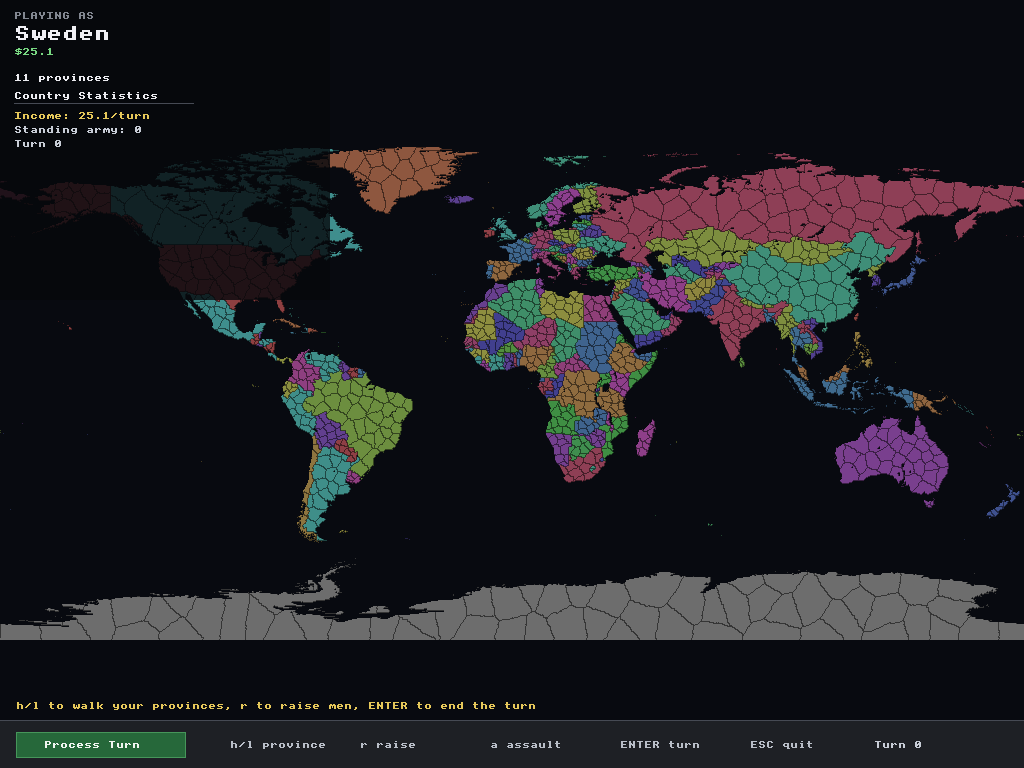
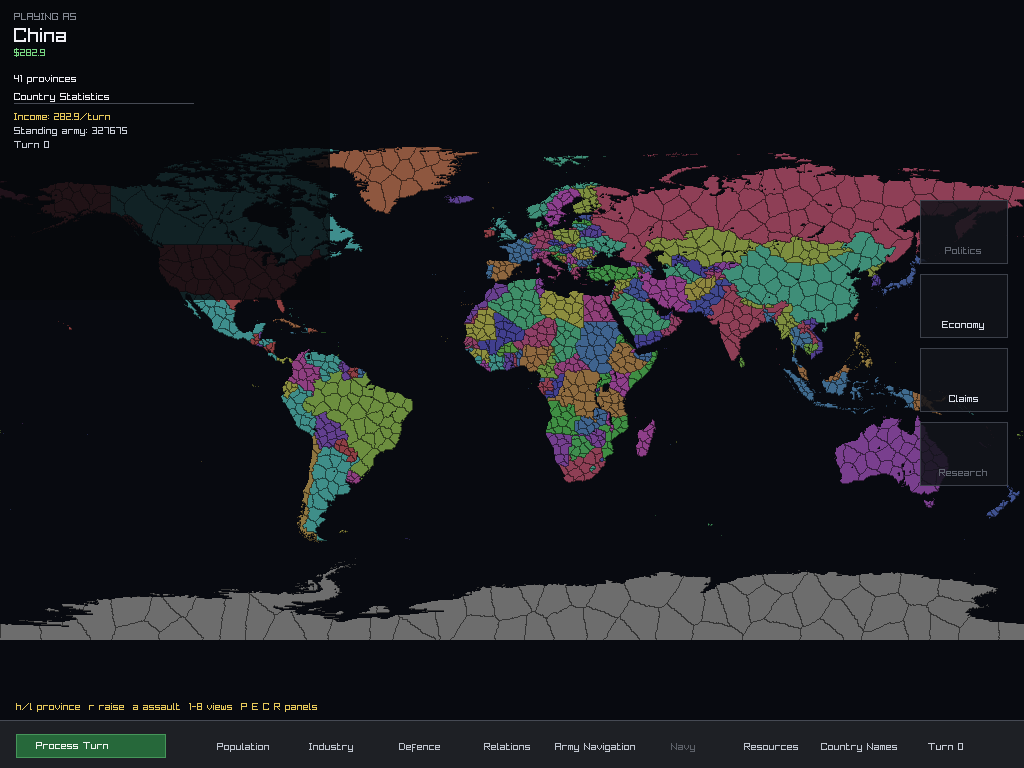
Document the TempleOS install, and make one picture do the pitch
README gains a TempleOS section written for somebody who has never used it:
what it needs, how to get files into the VM, the two ways to start it, and an
honest note that there is a network driver but nothing uses it yet.

templeos_collage.py stacks the desktop build above the TempleOS one. Both
have the same map, the same statistics panel, the same tab bar and the same
four buttons down the side, so the comparison argues its own case -- which is
what a post that allows a single image needs.

The posts are plainer now, and the TempleOS one presents the game instead of
telling war stories. That community knows the machine; what they have not
seen is a grand strategy game on it. The debugging belongs in the comments,
where somebody has asked for it.

diff --git a/tools/templeos_collage.py b/tools/templeos_collage.py
@@ -1,0 +1,85 @@
+#!/usr/bin/env python3
+"""The same game on two machines, in one picture.
+
+For posts that allow a single image. Side by side is the whole argument: the
+desktop build and the TempleOS build have the same map, the same left-hand
+statistics panel, the same tab bar along the bottom and the same buttons down
+the right -- so the comparison makes its own case without a caption doing it.
+
+Stacked rather than side by side because both are landscape; sitting them in a
+column keeps each one wide enough to read.
+
+    python3 tools/templeos_collage.py docs/img/templeos-compare.png
+"""
+from __future__ import annotations
+
+import argparse
+import pathlib
+import sys
+
+from PIL import Image, ImageDraw, ImageFont
+
+W = 1280                 # width each screenshot is scaled to
+PAD = 28
+GAP = 20
+LABEL_H = 46
+BG = (14, 15, 19)
+FG = (232, 234, 240)
+DIM = (140, 146, 158)
+
+TOP = ("docs/img/province.png", "Windows, macOS, Linux, browser", "C++ and OpenGL")
+BOT = ("docs/img/templeos-game.png", "TempleOS", "HolyC, 1024x768, no host")
+
+
+def font(size, bold=False):
+    for path in ("/System/Library/Fonts/Helvetica.ttc",
+                 "/System/Library/Fonts/Supplemental/Arial.ttf",
+                 "/usr/share/fonts/truetype/dejavu/DejaVuSans.ttf"):
+        try:
+            return ImageFont.truetype(path, size, index=1 if bold and path.endswith("ttc") else 0)
+        except Exception:                                   # noqa: BLE001
+            continue
+    return ImageFont.load_default()
+
+
+def scaled(path):
+    im = Image.open(path).convert("RGB")
+    return im.resize((W, round(im.height * W / im.width)), Image.LANCZOS)
+
+
+def main() -> int:
+    ap = argparse.ArgumentParser()
+    ap.add_argument("out")
+    a = ap.parse_args()
+
+    root = pathlib.Path(__file__).resolve().parent.parent
+    try:
+        top, bot = scaled(root / TOP[0]), scaled(root / BOT[0])
+    except FileNotFoundError as e:
+        print(f"missing screenshot: {e}", file=sys.stderr)
+        return 1
+
+    h = PAD + LABEL_H + top.height + GAP + LABEL_H + bot.height + PAD
+    out = Image.new("RGB", (W + PAD * 2, h), BG)
+    d = ImageDraw.Draw(out)
+    big, small = font(24, True), font(17)
+
+    y = PAD
+    for im, (_, title, note) in ((top, TOP), (bot, BOT)):
+        d.text((PAD, y), title, font=big, fill=FG)
+        tw = d.textlength(title, font=big)
+        d.text((PAD + tw + 14, y + 6), note, font=small, fill=DIM)
+        y += LABEL_H
+        out.paste(im, (PAD, y))
+        # A hairline keeps the two screenshots from bleeding into each other
+        # where both are nearly black at the edges.
+        d.rectangle([PAD, y, PAD + W - 1, y + im.height - 1], outline=(46, 49, 56))
+        y += im.height + GAP
+
+    out.save(a.out)
+    print(f"{a.out}: {out.width}x{out.height}")
+    return 0
+
+
+if __name__ == "__main__":
+    raise SystemExit(main())

diff --git a/docs/growth/templeos-campaign.md b/docs/growth/templeos-campaign.md
@@ -1,56 +1,74 @@
-## The posts, one paragraph each
+## The posts
 
-Use these. A paragraph gets read; a wall of headers gets scrolled past, and on
-Reddit the comments are where the detail belongs anyway — answer the questions
-people actually ask rather than pre-empting all of them. The longer versions
-are kept below for the comment replies and for anywhere that wants depth.
+One paragraph each, plain words. Long posts get scrolled past, and on Reddit
+the detail belongs in the comments anyway — answer what people actually ask
+instead of guessing at all of it in advance. The longer versions below are
+material for those replies.
 
 Link everywhere:
 https://github.com/Pr1nted/Open-Doctrines/releases/tag/templeos-v1.2.2a
 
 ---
 
-**r/TempleOS_Official** — gallery: menu, game, actions, navy, truecolor
+**r/TempleOS_Official** — one image: `docs/img/templeos-compare.png`
 
-> *Title:* Open Doctrines runs on TempleOS. 1,632 provinces, all 39 actions, no host.
+That collage is the post. Same game, same screen layout, one running on
+Windows and one on TempleOS. It makes the point before anyone reads a word,
+which is what you want from a single image.
 
-> Rules, map and interface all on the machine, nothing on the other end of a
-> bridge: 1,632 provinces, 86 techs, 59 policies, fleets with a sea to cross,
-> at 1024x768 in 32-bit colour. The OS made more of this easy than I expected
-> — the compiler does 3,000 lines in 1.7 seconds so I stopped using a build
-> step, memory is identity-mapped so the NIC's receive buffer pointer goes
-> straight into the card's register, and it decompresses its own source on
-> read, so I had it unpack all 510 `.HC.Z` files and grepped them instead of
-> guessing. Two things I had wrong: the sixteen-colour limit is one line of
-> `KStart16.HC` asking VBE for mode 0x12, and `Except:Drv` out of
-> `Cd("D:/Home")` is not disk corruption, it is the live CD not mounting hard
-> drives. [link] — copy into `D:/Home`, `#include "ODGame"; ODStart;`, wants
-> DISPI so QEMU, Bochs or VirtualBox. TempleOS is public domain, by Terry A.
-> Davis.
+This one presents the thing rather than telling war stories. The people there
+know the machine; what they have not seen is a grand strategy game on it. Save
+the debugging for the comments, where somebody has asked.
+
+> *Title:* Open Doctrines on TempleOS — a grand strategy game running entirely on the machine
+
+> This is Open Doctrines, a grand strategy game I make, running on TempleOS.
+> The map, the rules and the AI all run there. Nothing is sent to another
+> computer.
+>
+> It has 1,632 provinces with population, industry, forts and harbours. You
+> raise armies and march them, build industry, research 86 technologies, pass
+> policies, sign alliances or declare war, and sail fleets between ports. All
+> 39 things you can do in the desktop version are here, and so are all 8 map
+> views. It draws at 1024x768 in full colour and uses the same font as the
+> desktop build.
+>
+> Copy the files into `D:/Home` and type `#include "ODGame"` then `ODStart;`.
+> It builds in about 1.7 seconds and opens the menu. There is a compiled
+> binary in the download too if you would rather not build it. You need QEMU,
+> Bochs or VirtualBox — it uses a screen mode real graphics cards do not
+> offer.
+>
+> [link]
+>
+> Happy to go into how any of it works.
+>
+> TempleOS is public domain, by Terry A. Davis.
 
 ---
 
-**r/osdev** — gallery: truecolor, navy, game
+**r/osdev** — images: truecolor, navy, game
 
 > *Title:* True colour and a network stack on TempleOS, which has neither
 
 > TempleOS asks VBE for mode 0x12 in one line of `KStart16.HC`, and you cannot
-> call the BIOS again later because it is long mode with no v86 — but the
-> Bochs DISPI ports at 0x1CE/0x1CF set a linear framebuffer with no BIOS at
-> all, so 1024x768x32 with the aperture from PCI BAR0, and the page tables
-> already cover it. Watch the legacy VGA window while you are there: 0xA0000 is
-> the first 64 KB of video memory, which at 1024 wide and 32bpp is your top
-> sixteen rows, and the window manager keeps repainting planar through it. For
-> networking I wrote an RTL8139 driver with ARP, IPv4 and UDP; identity-mapped
-> memory means the receive buffer pointer goes straight into RBSTART with no
-> translation or pinning, and the bug that cost me most was that CAPR starts
-> at -16, not 0, so a ring initialised to zero receives nothing and looks
-> exactly like dead hardware. Two more if you go further: an AOT compile
-> chains onto `cmp.asm_hash` rather than the running system's symbol table, so
-> it begins with no C types and rejects a two-line function until you hand it
-> the kernel headers in a project file; and a bare `$` stops the HolyC
-> compiler reading the file, silently, so every function after it ceases to
-> exist. [link]. TempleOS is public domain, by Terry A. Davis.
+> call the BIOS again later because it runs in long mode with no v86. The
+> Bochs DISPI ports at 0x1CE/0x1CF set a linear framebuffer without the BIOS,
+> so you can have 1024x768x32 with the aperture from PCI BAR0, and the page
+> tables already cover it. Watch the old VGA window while you are there:
+> 0xA0000 is the first 64 KB of video memory, which at 1024 wide and 32bpp is
+> your top sixteen rows, and the window manager keeps painting planar through
+> it. For networking I wrote an RTL8139 driver with ARP, IPv4 and UDP. Memory
+> is identity-mapped, so the receive buffer pointer goes straight into RBSTART
+> with no translation and no pinning. The bug that cost me most: CAPR starts
+> at -16, not 0. Set it to zero and the card thinks the reader is ahead of the
+> writer and delivers nothing, which looks exactly like dead hardware. Two
+> more if you go further. An AOT compile chains onto `cmp.asm_hash` instead of
+> the running system's symbol table, so it starts with no C types and rejects
+> a two-line function until you give it the kernel headers in a project file.
+> And a bare `$` stops the HolyC compiler reading the file without saying so,
+> which quietly deletes every function after it. [link]. TempleOS is public
+> domain, by Terry A. Davis.
 
 ---
 
@@ -58,53 +76,53 @@ https://github.com/Pr1nted/Open-Doctrines/releases/tag/templeos-v1.2.2a
 
 > *Title:* Show HN: A grand strategy game running natively on TempleOS
 
-> Not streamed from a host and not a thin client: the rules, the map and the
-> interface all execute on the machine. TempleOS has no C++ compiler, no
-> OpenGL and no network stack, so this is a reimplementation of the rules in
-> HolyC with the world as a data file — 1,632 provinces, 39 actions, 86
-> research nodes, 59 policies, a sea map — and the port carries a video mode
-> the OS does not normally use plus an RTL8139 driver with ARP, IPv4 and UDP.
-> The sixteen-colour limit turned out to be one constant in the boot stub. What
-> keeps the two versions honest is CI rather than discipline: the desktop build
-> names its 39 actions, 8 map views and 20 policy levers in C++ source, and a
-> tool reads those lists and fails the build when the TempleOS side falls
-> behind or something new turns up unclassified. It cannot port code, but it
-> makes divergence loud. Source-available, not open source. TempleOS is public
+> Nothing is streamed from a host. The map, the rules and the AI all run on
+> the machine. TempleOS has no C++ compiler, no OpenGL and no networking, so
+> this is the rules rewritten in HolyC with the world as a data file: 1,632
+> provinces, 39 actions, 86 technologies, 59 policies, fleets and a sea to
+> sail them on. The sixteen-colour limit turned out to be one constant in the
+> boot code, and the port carries an RTL8139 driver with ARP, IPv4 and UDP
+> because the OS ships without any. The two versions stay in step through CI
+> rather than good intentions: the desktop build lists its 39 actions, 8 map
+> views and 20 policy levers in C++ source, and a tool reads those lists and
+> fails the build when the TempleOS side falls behind or something new shows
+> up that nobody has classified. It cannot port code, but it makes the gap
+> impossible to miss. Source-available, not open source. TempleOS is public
 > domain, by Terry A. Davis.
 
 ---
 
-**r/grandstrategygames / r/StrategyGames** — gallery: actions first, then
-game, views, sail, menu
+**r/grandstrategygames / r/StrategyGames** — images: actions, game, views,
+sail, menu
 
 > *Title (grandstrategy):* My grand strategy game now runs on TempleOS, which has sixteen colours and no networking
 > *Title (StrategyGames):* I ported my strategy game to TempleOS
 
-> The whole game is on the machine, not a tech demo with a map painted on it:
-> 1,632 provinces with population, industry, forts, garrisons, harbours and
-> deposits, all 39 actions the PC version has from recruiting and shelling to
-> amphibious landings and trade agreements, the real 86-node tech tree with its
-> real gating, 59 policies that pull their levers, and unrest so conquered
-> ground costs you to hold. The rule I most wanted to keep survived — frontage:
-> a province fits only so many men, forts narrow it further, and past that
-> number extra troops do not fight at all, so ten million attackers hit a
-> narrow province with the same force as one million and the only difference is
-> who can afford the losses. TempleOS has sixteen colours and no networking, so
-> the port also carries a video mode the OS does not normally use and a network
-> driver, and the text is raylib's bitmap font baked glyph for glyph so it
-> reads the same as the desktop build. Free, runs in a VM: [link]. TempleOS is
-> public domain, by Terry A. Davis.
+> The whole game is on the machine, not a demo with a map painted on it. 1,632
+> provinces with population, industry, forts, garrisons, harbours and
+> resources. Everything the PC version lets you do, from recruiting and
+> shelling to landing troops from ships and signing trade deals. The real
+> 86-node tech tree. 59 policies that actually change your numbers. Unrest, so
+> taking land is easier than keeping it. The rule I most wanted to keep
+> survived: a province only has room for so many men, and forts shrink that
+> further, so past a point extra troops do not fight at all. Ten million
+> attackers hit a narrow province as hard as one million; the difference is
+> who can afford the losses. TempleOS has sixteen colours and no networking,
+> so the port also had to bring a screen mode and a network driver with it,
+> and the text is the desktop game's own font copied pixel for pixel. Free,
+> runs in a VM: [link]. TempleOS is public domain, by Terry A. Davis.
 
 ---
 
 **Lobste.rs** — link, tags `osdev` and `gamedev`, one comment:
 
-> Author here. Two bits most likely to be useful: TempleOS's sixteen-colour
-> limit is one constant in the boot stub — it already calls VBE and asks for
-> mode 0x12, and the Bochs DISPI registers set a linear framebuffer with no
-> BIOS call. And an AOT compile chains onto `cmp.asm_hash` rather than the
-> running system's symbol table, so it starts with no C types and rejects a
-> two-line function until you hand it the kernel headers in a project file.
+> Author here. Two things most likely to be useful to somebody else.
+> TempleOS's sixteen-colour limit is one constant in the boot code — it
+> already calls VBE and just asks for mode 0x12, and the Bochs DISPI registers
+> will set a linear framebuffer with no BIOS call. And an AOT compile chains
+> onto `cmp.asm_hash` rather than the running system's symbol table, so it
+> starts with no C types and rejects a two-line function until you hand it the
+> kernel headers in a project file.
 
 ---
 

diff --git a/README.md b/README.md
@@ -5,8 +5,9 @@
 It is the kind of game Hearts of Iron IV and Victoria are: provinces with
 population and industry, a research tree, doctrines you pick and live with,
 war, rebellion and diplomacy across a world map. It plays on Windows, macOS,
-Linux, Android and **in a browser tab with no download and no account** — and
-it costs nothing, on every one of them.
+Linux, Android, **in a browser tab with no download and no account** — and,
+since v1.2.2a, on [TempleOS](#templeos). It costs nothing on every one of
+them.
 
 [**Play it in your browser**](https://pr1nted.itch.io/open-doctrines) ·
 [Downloads](https://github.com/Pr1nted/Open-Doctrines/releases) ·
@@ -228,6 +229,56 @@ Specifically:
 
 Build it with `tools/package_android.sh` after configuring with the NDK
 toolchain; the CI builds and checks the same APK on every push.
+
+### TempleOS
+
+There is a TempleOS version. It is a separate build of the game, written in
+HolyC, and the whole thing runs on that machine: the map, the rules and the
+AI. Nothing is sent to another computer.
+
+You need TempleOS in a virtual machine — QEMU, Bochs or VirtualBox. It will
+not work on a real PC. The game needs a screen mode TempleOS can only reach
+through registers those emulators provide and real graphics cards do not.
+
+Download [the TempleOS release][tos-rel], then:
+
+1. Start TempleOS in your VM.
+2. Copy every file from the zip into `D:/Home`. The easiest way is to shut the
+   VM down and mount its disk image on your own computer — TempleOS uses
+   FAT32, so Windows, macOS and Linux can all open it. `templeos/vm.sh push`
+   in this repository does it for you if you use QEMU.
+3. Start the VM again and type:
+
+   ```
+   #include "ODGame"
+   ODStart;
+   ```
+
+That builds the game — about 1.7 seconds — and opens the menu. Pick a country
+and play.
+
+If you would rather not build it, the zip also has `ODBIN.BIN`, the game
+already compiled:
+
+```
+#include "RUN"
+U0 (*f)(U8 *w) = ODStart;
+(*f)("world.odw");
+```
+
+Three lines instead of one because of how TempleOS loads things;
+[templeos/README.md](templeos/README.md) explains it.
+
+**Controls.** Click a province, or press `n` to move to one next to it, or
+`h` and `l` to step through your own. Press `?` for every key.
+
+**What it has:** 1,632 provinces, all 39 actions the desktop game has, all 8
+map views, 86 technologies, 59 policies, fleets and a sea to sail them on.
+
+**What it does not:** multiplayer. There is a working network driver in
+`templeos/Net.HC` — TempleOS ships without one — but no game uses it yet.
+
+[tos-rel]: https://github.com/Pr1nted/Open-Doctrines/releases/tag/templeos-v1.2.2a
 
 ## Building
 
